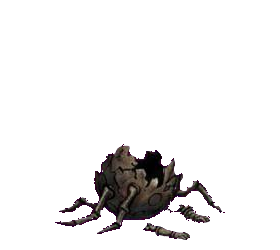
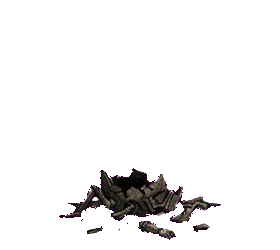
Remove Spider Queen death frame three

Changed region(s): [[0.2, 0.56, 0.8, 0.98]]

diff --git a/test_v2_motion.js b/test_v2_motion.js
@@ -72,7 +72,7 @@ assert(practiceSource.includes('root: "art/v2-style/animation-test-frames/grave-
 assert(practiceSource.includes('"grave-priest": { name: "묘지 사제", root: "art/v2-style/animation-test-frames/grave-priest/", counts: { attack: 5, hit: 4, death: 6 } }'), "Grave Priest frame counts are incorrect.");
 assert(practiceSource.includes('"forest-fairy": { name: "숲 요정", root: "art/v2-style/animation-test-frames/forest-fairy/", counts: { attack: 5, hit: 4, death: 7 } }'), "Forest Fairy frame counts are incorrect.");
 assert(practiceSource.includes('"mushroom-soldier": { name: "버섯 병사", root: "art/v2-style/animation-test-frames/mushroom-soldier/", counts: { attack: 5, hit: 4, death: 6 } }'), "Mushroom Soldier frame counts are incorrect.");
-assert(practiceSource.includes('"spider-knight": { name: "거미여왕", root: "art/v2-style/animation-test-frames/spider-knight/", counts: { attack: 5, hit: 4, death: 6 } }'), "Spider Queen frame counts are incorrect.");
+assert(practiceSource.includes('"spider-knight": { name: "거미여왕", root: "art/v2-style/animation-test-frames/spider-knight/", counts: { attack: 5, hit: 4, death: 5 } }'), "Spider Queen frame counts are incorrect.");
 assert(practiceSource.includes('"goblin-chief": { name: "고블린족장", root: "art/v2-style/animation-test-frames/goblin-chief/", counts: { attack: 5, hit: 4, death: 5 } }'), "Goblin Chief frame counts are incorrect.");
 assert(practiceSource.includes('"plague-doctor": { name: "역병술사", root: "art/v2-style/animation-test-frames/plague-doctor/", counts: { attack: 5, hit: 4, death: 5 } }'), "Plague Doctor frame counts are incorrect.");
 assert(practiceSource.includes('"plague-frog": { name: "역병 개구리", root: "art/v2-style/animation-test-frames/plague-frog/", counts: { attack: 5, hit: 4, death: 5 } }'), "Plague Frog frame counts are incorrect.");
@@ -276,7 +276,7 @@ assert(mushroomSoldierProcessor.includes("RemoveFinalSparkle"), "Mushroom Soldie
 assert(mushroomSoldierProcessor.includes("RemoveEdgeWhiteGutters"), "Mushroom Soldier white cell gutter cleanup is missing.");
 assert(mushroomSoldierProcessor.includes("DrawImageUnscaled"), "Mushroom Soldier frames must preserve source resolution.");
 
-for (const [motion, count] of Object.entries({ attack: 5, hit: 4, death: 6 })) {
+for (const [motion, count] of Object.entries({ attack: 5, hit: 4, death: 5 })) {
   for (let index = 1; index <= count; index += 1) {
     const relative = `art/v2-style/animation-test-frames/spider-knight/${motion}-${String(index).padStart(2, "0")}.png`;
     assert(fs.existsSync(path.join(root, relative)), `Spider Knight frame is missing: ${relative}`);
@@ -284,6 +284,7 @@ for (const [motion, count] of Object.entries({ attack: 5, hit: 4, death: 6 })) {
 }
 assert(spiderKnightProcessor.includes("RemoveFinalSparkle"), "Spider Knight final Gemini cleanup is missing.");
 assert(spiderKnightProcessor.includes("DrawImageUnscaled"), "Spider Knight frames must preserve source resolution.");
+assert(!fs.existsSync(path.join(root, "art/v2-style/animation-test-frames/spider-knight/death-06.png")), "Spider Queen removed death frame remains.");
 
 assert(fs.existsSync(path.join(root, "art/v2-style/animation-sheets/green-raw/death-knight-animation-sheet.jpg")), "New raw Death Knight sheet is missing.");
 assert(fs.existsSync(path.join(root, "art/v2-style/animation-sheets/green-raw/skeleton-spear-animation-sheet.jpg")), "New raw Skeleton Spearman sheet is missing.");
@@ -308,7 +309,7 @@ assert(fs.existsSync(path.join(root, "art/v2-style/animation-sheets/green-raw/gr
 assert(fs.existsSync(path.join(root, "art/v2-style/animation-sheets/green-raw/forest-fairy-animation-sheet.jpg")), "New raw Forest Fairy sheet is missing.");
 assert(fs.existsSync(path.join(root, "art/v2-style/animation-sheets/green-raw/mushroom-soldier-animation-sheet.jpg")), "New raw Mushroom Soldier sheet is missing.");
 assert(fs.existsSync(path.join(root, "art/v2-style/animation-sheets/green-raw/spider-knight-animation-sheet.jpg")), "New raw Spider Knight sheet is missing.");
-assert(serviceWorker.includes("necromancer-expedition-v114"), "Service worker cache version was not bumped.");
+assert(serviceWorker.includes("necromancer-expedition-v115"), "Service worker cache version was not bumped.");
 assert(!serviceWorker.includes("animation-sheets/uploaded-raw"), "Deleted legacy animation sheets remain in offline cache.");
 assert(!serviceWorker.includes("animation-test-crops"), "Deleted comparison crops remain in offline cache.");
 for (const match of serviceWorker.matchAll(/^\s*"(\.\/[^"?]+)(?:\?[^\"]*)?"[,]?$/gm)) {

diff --git a/service-worker.js b/service-worker.js
@@ -1,11 +1,11 @@
-const CACHE_NAME = "necromancer-expedition-v114";
+const CACHE_NAME = "necromancer-expedition-v115";
 const APP_SHELL = [
   "./",
   "./index.html",
   "./v2.html",
   "./v2-animation-practice.html",
   "./v2-animation-practice.css?v=5",
-  "./v2-animation-practice.js?v=36",
+  "./v2-animation-practice.js?v=37",
   "./v2-dice-practice.html",
   "./v2-dice-practice.css?v=1",
   "./v2-dice-practice.js?v=1",
@@ -210,7 +210,7 @@ Object.entries({ attack: 5, hit: 4, death: 6 }).forEach(([motion, count]) => {
     APP_SHELL.push(`./art/v2-style/animation-test-frames/mushroom-soldier/${motion}-${String(index).padStart(2, "0")}.png`);
   }
 });
-Object.entries({ attack: 5, hit: 4, death: 6 }).forEach(([motion, count]) => {
+Object.entries({ attack: 5, hit: 4, death: 5 }).forEach(([motion, count]) => {
   for (let index = 1; index <= count; index += 1) {
     APP_SHELL.push(`./art/v2-style/animation-test-frames/spider-knight/${motion}-${String(index).padStart(2, "0")}.png`);
   }

diff --git a/v2-animation-practice.js b/v2-animation-practice.js
@@ -28,7 +28,7 @@
     "grave-priest": { name: "묘지 사제", root: "art/v2-style/animation-test-frames/grave-priest/", counts: { attack: 5, hit: 4, death: 6 } },
     "forest-fairy": { name: "숲 요정", root: "art/v2-style/animation-test-frames/forest-fairy/", counts: { attack: 5, hit: 4, death: 7 } },
     "mushroom-soldier": { name: "버섯 병사", root: "art/v2-style/animation-test-frames/mushroom-soldier/", counts: { attack: 5, hit: 4, death: 6 } },
-    "spider-knight": { name: "거미여왕", root: "art/v2-style/animation-test-frames/spider-knight/", counts: { attack: 5, hit: 4, death: 6 } }
+    "spider-knight": { name: "거미여왕", root: "art/v2-style/animation-test-frames/spider-knight/", counts: { attack: 5, hit: 4, death: 5 } }
   });
   const FRAME_MS = Object.freeze({ attack: 145, hit: 135, death: 175 });
   const MOTION_LABELS = Object.freeze({ attack: "공격", hit: "피격", death: "사망" });

diff --git a/test_v2_auto_battle.js b/test_v2_auto_battle.js
@@ -60,7 +60,7 @@ for (const slug of ["death-knight", "skeleton-spear", "ghoul", "ancient-treant",
   }
 }
 
-assert(worker.includes('necromancer-expedition-v114'), "Service worker cache version was not advanced.");
+assert(worker.includes('necromancer-expedition-v115'), "Service worker cache version was not advanced.");
 assert(worker.includes("v2-auto-battle-practice.html"), "Auto battle page is not cached.");
 assert(worker.includes("v2-auto-battle-practice.js?v=7"), "Auto battle logic is not cached.");
 console.log("SUCCESS: landscape 4v4 speed auto-battle checks passed.");

diff --git a/v2-animation-practice.html b/v2-animation-practice.html
@@ -63,6 +63,6 @@
       <p>본게임에는 아직 적용하지 않은 유닛별 검수용 테스트입니다.</p>
     </section>
   </main>
-  <script src="v2-animation-practice.js?v=36"></script>
+  <script src="v2-animation-practice.js?v=37"></script>
 </body>
 </html>
